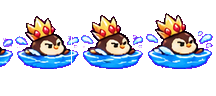
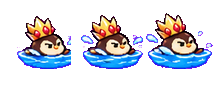
C14 P6: clear neighbour bleed from Nova and Pip-Pip swim strips

Changed region(s): [[0.0, 0.375, 0.1389, 0.7188], [0.3333, 0.375, 0.3889, 0.6562], [0.9167, 0.3438, 1.0, 0.4688]]

diff --git a/tools/c14_art_clean.py b/tools/c14_art_clean.py
@@ -168,6 +168,39 @@ def fringe_files():
                 yield info["file"]
 
 
+# bleed (c14_17-11): neighbour slivers on any cell edge (top/bottom too: the next row's hat
+# tips) and detached bursts: islands under 15% of the figure that touch a cell edge go.
+BLEED = ["characters/penguin_wizard/swim.png", "characters/penguin_king/swim.png"]
+
+
+def debleed(a, cw):
+    out = a.copy()
+    n = 0
+    for x0 in range(0, a.shape[1], cw):
+        cell = out[:, x0:x0 + cw]
+        solid = cell[..., 3] > 20
+        lab, k = ndimage.label(solid, structure=np.ones((3, 3)))
+        if k < 2:
+            continue
+        sz = ndimage.sum(solid, lab, range(1, k + 1))
+        big = int(np.argmax(sz)) + 1
+        bx = np.where((lab == big).any(axis=0))[0]
+        for i in range(1, k + 1):
+            mx = np.where((lab == i).any(axis=0))[0]
+            if i != big and sz[i - 1] > 6 and (mx.max() < bx.min() or mx.min() > bx.max()):
+                cell[lab == i, 3] = 0  # a burst or figure beside the frame's own figure
+                n += 1
+                continue
+            if i == big or sz[i - 1] > 0.4 * sz[big - 1]:
+                continue
+            m = lab == i
+            touches = m[0].any() or m[-1].any() or m[:, 0].any() or m[:, -1].any()
+            if (touches and sz[i - 1] > 6) or (0.04 * sz[big - 1] < sz[i - 1] <= 0.15 * sz[big - 1]):
+                cell[m, 3] = 0
+                n += 1
+    return out if n else None
+
+
 def hole_files():
     for k, most in HOLES.items():
         p = os.path.join(GEN, k)
@@ -221,7 +254,19 @@ def main():
             pairs.append((a, out))
             if not dry:
                 write(rel, out)
-    for rel, info in ([] if kind in ("holes", "fringe") else files(kind)):
+    if kind == "bleed":
+        for rel in BLEED:
+            grp, nm = rel.rsplit("/", 1)
+            info = MAN[grp][nm[:-4]]
+            a = np.array(Image.open(os.path.join(GEN, rel)).convert("RGBA"))
+            out = debleed(a, int(info.get("cell_w", a.shape[1])))
+            if out is None:
+                continue
+            print(rel)
+            pairs.append((a, out))
+            if not dry:
+                write(rel, out)
+    for rel, info in ([] if kind in ("holes", "fringe", "bleed") else files(kind)):
         if rel in seen or not os.path.exists(os.path.join(GEN, rel)):
             continue
         seen.add(rel)
